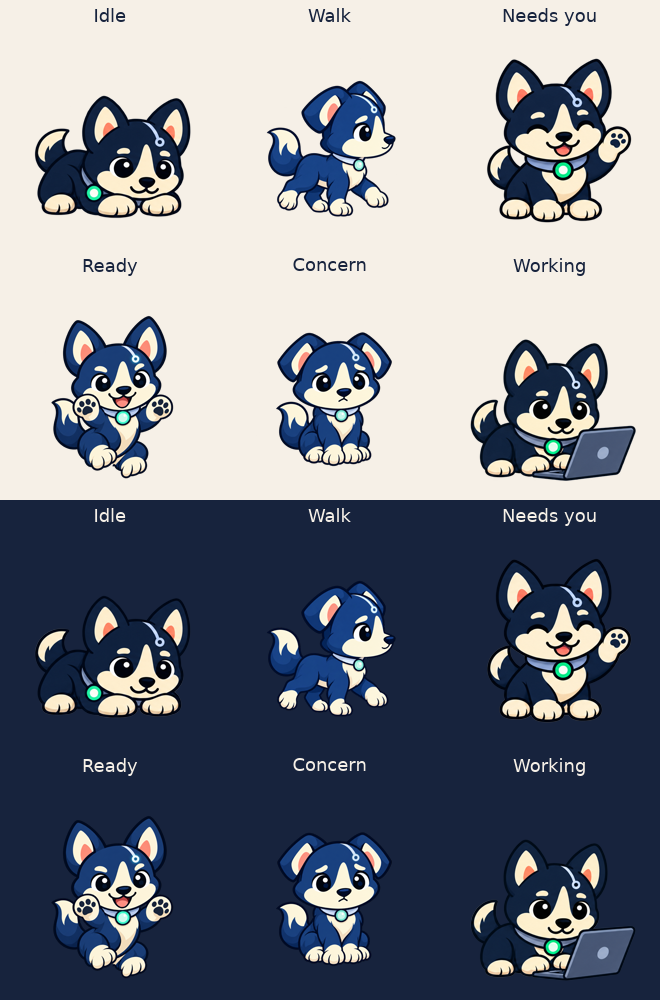
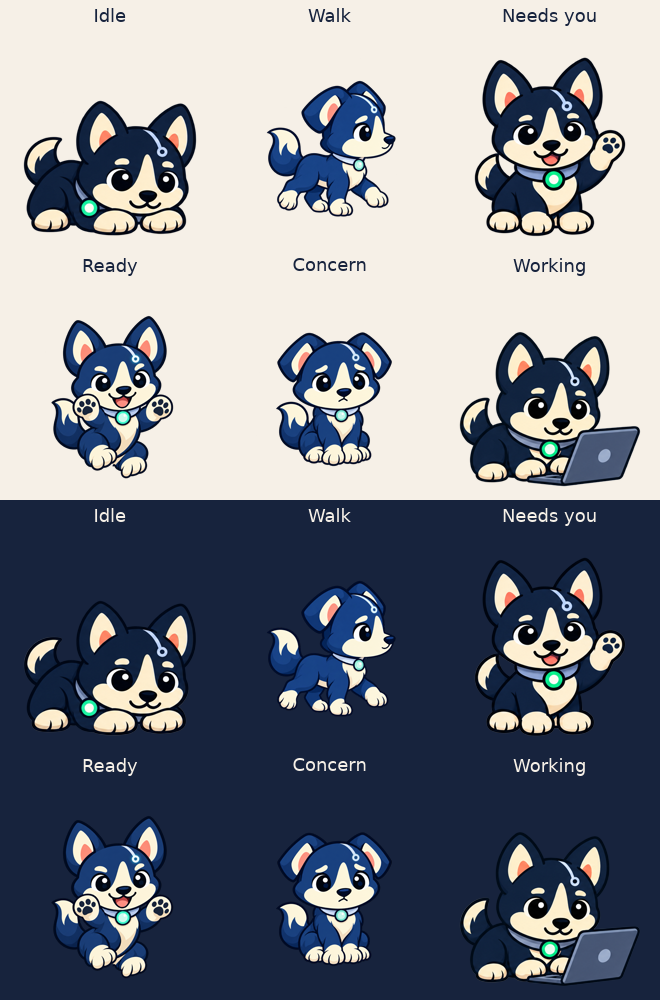
Stabilize AgentPup animation frames

diff --git a/packages/pets/src/pets.test.ts b/packages/pets/src/pets.test.ts
@@ -61,9 +61,14 @@ describe("OpenPets compatibility", () => {
     expect(resolvePetAnimation("working")).toMatchObject({
       row: 7,
       frames: 6,
+      durationMs: 1_200,
       iterations: "infinite"
     });
-    expect(resolvePetAnimation("needs-you")).toMatchObject({ row: 3, frames: 4 });
+    expect(resolvePetAnimation("needs-you")).toMatchObject({
+      row: 3,
+      frames: 4,
+      durationMs: 1_000
+    });
     expect(resolvePetAnimation("ready")).toEqual(resolvePetAnimation("idle"));
   });
 

diff --git a/packages/pets/src/animation.ts b/packages/pets/src/animation.ts
@@ -16,8 +16,8 @@ const idleAnimation: PetAnimation = {
 
 const animations: Record<PetVisualState, PetAnimation> = {
   idle: idleAnimation,
-  working: { row: 7, frames: 6, durationMs: 820, iterations: "infinite" },
-  "needs-you": { row: 3, frames: 4, durationMs: 700, iterations: 2 },
+  working: { row: 7, frames: 6, durationMs: 1_200, iterations: "infinite" },
+  "needs-you": { row: 3, frames: 4, durationMs: 1_000, iterations: 2 },
   ready: idleAnimation,
   unknown: idleAnimation
 };

diff --git a/apps/desktop/src/default-pet.test.ts b/apps/desktop/src/default-pet.test.ts
@@ -48,6 +48,8 @@ describe("original bundled AgentPup design", () => {
     expect(exporter).toContain('"idle-grid.png"');
     expect(exporter).toContain('"working-grid.png"');
     expect(exporter).toContain('"needs-you-grid.png"');
+    expect(exporter).toContain("alphaextract,bbox=min_val=1");
+    expect(exporter).toContain("targetHeight");
     expect(notes).toContain("Needs you");
     expect(license).toContain("MIT License");
     expect(main).toContain('displayName: "AgentPup"');

diff --git a/pets/agentpup/source/README.md b/pets/agentpup/source/README.md
@@ -21,7 +21,8 @@ root:
 node pets/agentpup/source/export.mjs
 ```
 
-`export.mjs` crops the generated animation grids, scales and positions the
+`export.mjs` measures each generated frame's alpha bounds, normalizes every
+frame in a loop to one visual height and ground line, scales and positions the
 remaining pose masters, constructs the 1536 by 2288 pixel atlas, writes a
 lossless WebP runtime sheet, creates the review board, and copies the exact
 runtime sheet into the desktop application's bundled assets.
